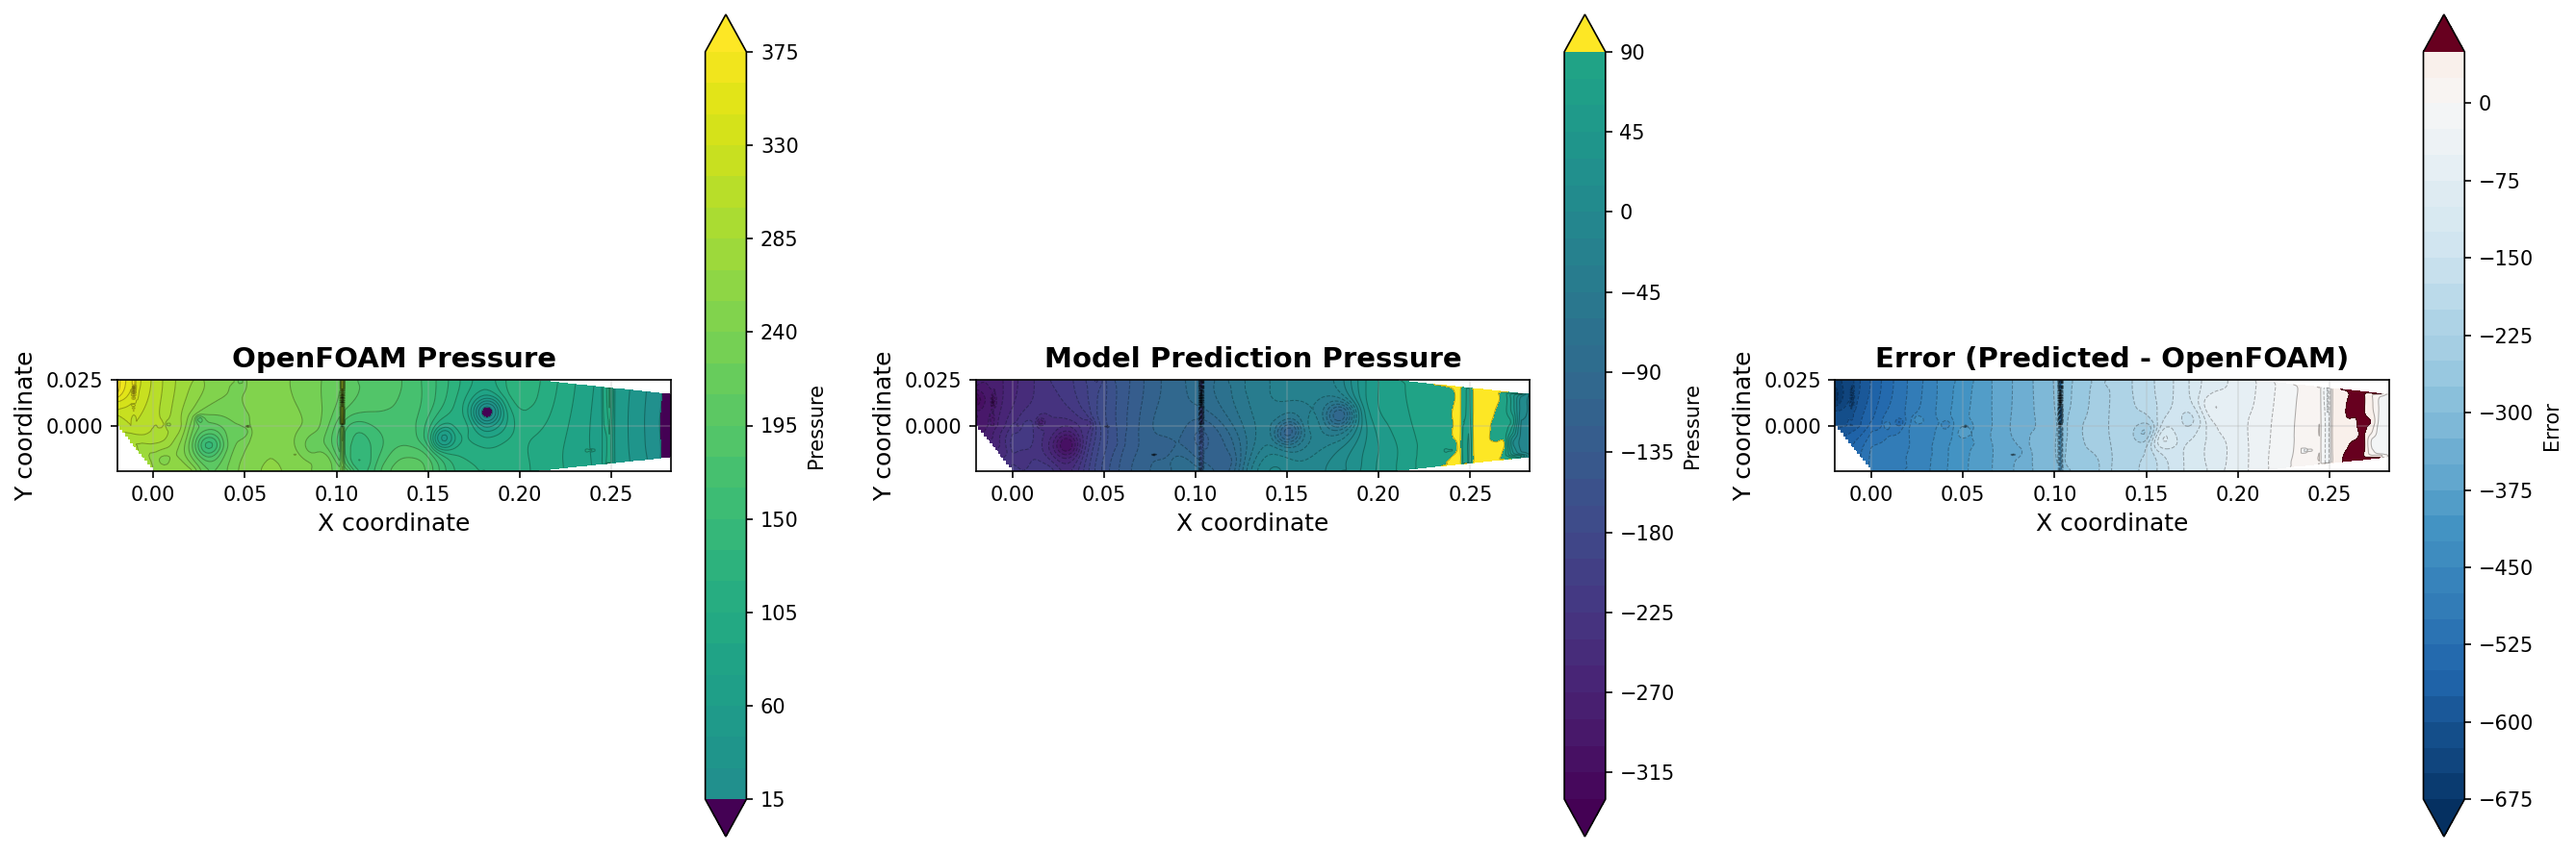
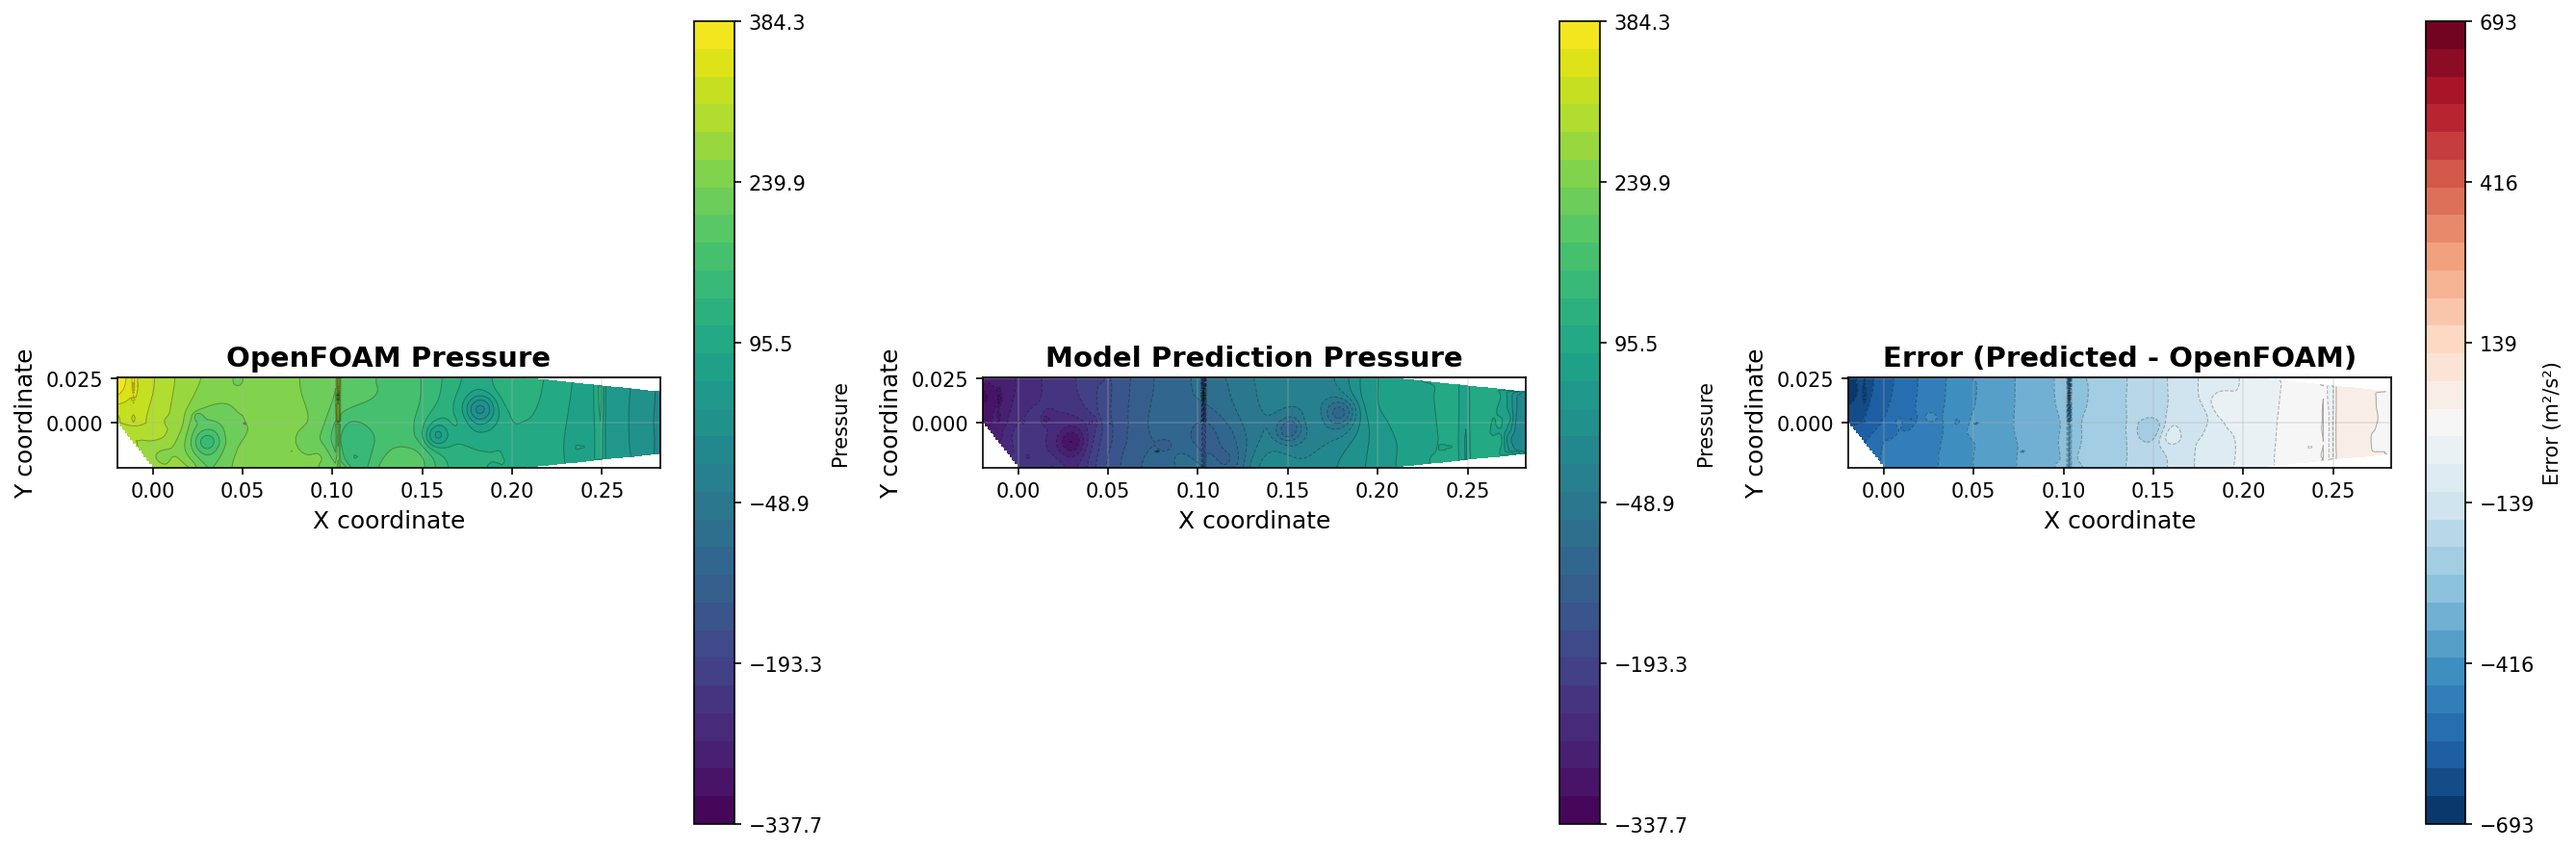
better legend

Changed region(s): [[0.0, 0.0, 0.9929, 0.9785], [0.9308, 0.9173, 0.9929, 0.9785]]

diff --git a/plot_contours.py b/plot_contours.py
@@ -132,46 +132,63 @@ def plot_contour_comparison(x, y, gt_values, pred_values, title_base, save_path=
     error = pred_values - gt_values
     zi_error = griddata((x, y), error, (xi_grid, yi_grid), method='linear', fill_value=np.nan)
     
-    # Determine common color scale
+    # Determine common color scale for both OpenFOAM and prediction
+    # Use the same vmin and vmax for both plots
     vmin = min(np.nanmin(zi_gt), np.nanmin(zi_pred))
     vmax = max(np.nanmax(zi_gt), np.nanmax(zi_pred))
     
+    # Create evenly spaced levels based on the common range
+    level_values = np.linspace(vmin, vmax, levels)
+    
     # Plot 1: OpenFOAM (Ground Truth)
-    contour1 = axes[0].contourf(xi_grid, yi_grid, zi_gt, levels=levels, 
-                                vmin=vmin, vmax=vmax, cmap='viridis', extend='both')
-    axes[0].contour(xi_grid, yi_grid, zi_gt, levels=levels, colors='black', 
+    contour1 = axes[0].contourf(xi_grid, yi_grid, zi_gt, levels=level_values, 
+                                vmin=vmin, vmax=vmax, cmap='viridis', extend='neither')
+    axes[0].contour(xi_grid, yi_grid, zi_gt, levels=level_values, colors='black', 
                    alpha=0.3, linewidths=0.5)
     axes[0].set_xlabel('X coordinate', fontsize=12)
     axes[0].set_ylabel('Y coordinate', fontsize=12)
     axes[0].set_title(f'OpenFOAM {title_base}', fontsize=14, fontweight='bold')
     axes[0].set_aspect('equal')
     axes[0].grid(True, alpha=0.3)
-    plt.colorbar(contour1, ax=axes[0], label=title_base)
+    cbar1 = plt.colorbar(contour1, ax=axes[0], label=title_base)
+    cbar1.set_ticks(np.linspace(vmin, vmax, 6))  # Set consistent tick marks
     
-    # Plot 2: Model Prediction
-    contour2 = axes[1].contourf(xi_grid, yi_grid, zi_pred, levels=levels,
-                               vmin=vmin, vmax=vmax, cmap='viridis', extend='both')
-    axes[1].contour(xi_grid, yi_grid, zi_pred, levels=levels, colors='black',
+    # Plot 2: Model Prediction - use same scale as OpenFOAM
+    contour2 = axes[1].contourf(xi_grid, yi_grid, zi_pred, levels=level_values,
+                               vmin=vmin, vmax=vmax, cmap='viridis', extend='neither')
+    axes[1].contour(xi_grid, yi_grid, zi_pred, levels=level_values, colors='black',
                    alpha=0.3, linewidths=0.5)
     axes[1].set_xlabel('X coordinate', fontsize=12)
     axes[1].set_ylabel('Y coordinate', fontsize=12)
     axes[1].set_title(f'Model Prediction {title_base}', fontsize=14, fontweight='bold')
     axes[1].set_aspect('equal')
     axes[1].grid(True, alpha=0.3)
-    plt.colorbar(contour2, ax=axes[1], label=title_base)
+    cbar2 = plt.colorbar(contour2, ax=axes[1], label=title_base)
+    cbar2.set_ticks(np.linspace(vmin, vmax, 6))  # Set same tick marks as OpenFOAM
     
     # Plot 3: Error
     error_max = max(abs(np.nanmin(zi_error)), abs(np.nanmax(zi_error)))
-    contour3 = axes[2].contourf(xi_grid, yi_grid, zi_error, levels=levels,
-                                vmin=-error_max, vmax=error_max, cmap='RdBu_r', extend='both')
-    axes[2].contour(xi_grid, yi_grid, zi_error, levels=levels, colors='black',
+    error_levels = np.linspace(-error_max, error_max, levels)
+    contour3 = axes[2].contourf(xi_grid, yi_grid, zi_error, levels=error_levels,
+                                vmin=-error_max, vmax=error_max, cmap='RdBu_r', extend='neither')
+    axes[2].contour(xi_grid, yi_grid, zi_error, levels=error_levels, colors='black',
                    alpha=0.3, linewidths=0.5)
     axes[2].set_xlabel('X coordinate', fontsize=12)
     axes[2].set_ylabel('Y coordinate', fontsize=12)
     axes[2].set_title(f'Error (Predicted - OpenFOAM)', fontsize=14, fontweight='bold')
     axes[2].set_aspect('equal')
     axes[2].grid(True, alpha=0.3)
-    plt.colorbar(contour3, ax=axes[2], label='Error')
+    
+    # Determine error unit based on field type
+    if 'Pressure' in title_base or 'pressure' in title_base.lower():
+        error_unit = ' (m²/s²)'
+    elif 'Velocity' in title_base or 'velocity' in title_base.lower():
+        error_unit = ' (m/s)'
+    else:
+        error_unit = ''
+    
+    cbar3 = plt.colorbar(contour3, ax=axes[2], label=f'Error{error_unit}')
+    cbar3.set_ticks(np.linspace(-error_max, error_max, 6))
     
     plt.tight_layout()
     
